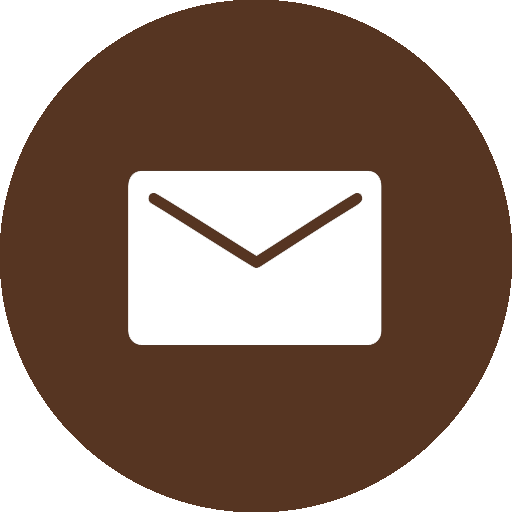
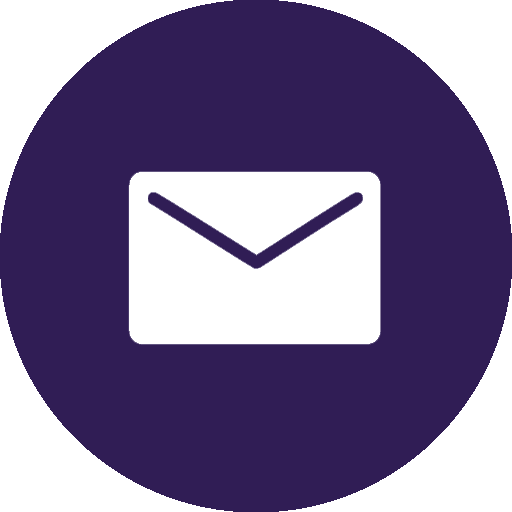
Updated Colors and Links on Index
Yes

diff --git a/public/index.html b/public/index.html
@@ -41,24 +41,31 @@
     </div>
 
     <div class="container">
-        <img src="./images/unannouncedGame.png" class="gameImage">
+        <img src="./images/Alice.jpg" class="gameImage" onclick="window.location.href='Alice';">
         <div class="gameDescription">
-            <h1>UNNANNOUNCED GAME</h1>
+            <h1>ALICE THROUGH THE FEY REALM</h1>
             <p class="subtitle">Y3 Team Project @ BUAS (2023-2024)</p>
             <p class="team-role">Technical Game Designer</p>
             <p class="game-genre">Genre: Isometric Narrative Adventure</p>
-            <br/><br/><br/><br/><br/><br/><br/><br/><br/><br/><br/><br/>
+            <p class="game-description">Alice Through the Fey Realm is an enchanting isometric narrative adventure that thrusts you into the shoes of Alice. A compelling adventure unfolds as you awaken in the mysterious Fey Realm and embark on a quest to discover the key to your journey home.</p>
+            <h2 class="responsibilities-title">My Responsibilities</h2>
+            <ul class="responsibilities-list">
+              <li>Developed the Dice Rolling System</li>
+              <li>Developed Equipment Effects</li>
+              <li>Developed the Dice Rolling User Interface</li>
+              <br/>
+          </ul>
             <div class="buttons">
-                <a href="#" target="_blank">
+                <a href="https://store.steampowered.com/app/2707340/Alice_Through_the_Fey_Realm/" target="_blank">
                     <img src="./images/SteamLogo.png">
                 </a>
-                <button class="learn-more-button" onclick="window.location.href='Unannounced';">Learn More</button>
+                <button class="learn-more-button" onclick="window.location.href='Alice';">Learn More</button>
             </div>
         </div>
     </div>
 
     <div class="container">
-        <img src="./images/twinstickjukebox.png" class="gameImage">
+        <img src="./images/twinstickjukebox.png" class="gameImage" onclick="window.location.href='TwinStickJukeBox';">
         <div class="gameDescription">
             <h1>TWIN STICK JUKEBOX</h1>
             <p class="subtitle">Y2 Solo Project @ BUAS (2022)</p>
@@ -73,7 +80,7 @@
                 <li>Developed the Power-Up System</li>
             </ul>
             <div class="buttons">
-                <a href="#" target="_blank">
+                <a href="https://anastefan.itch.io/y2atsj" target="_blank">
                     <img src="./images/itch_Logo.png">
                 </a>
                 <button class="learn-more-button" onclick="window.location.href='TwinStickJukeBox';">Learn More</button>
@@ -82,7 +89,7 @@
     </div>
 
     <div class="container">
-        <img src="./images/astrohaunt.jpg" class="gameImage">
+        <img src="./images/astrohaunt.jpg" class="gameImage" onclick="window.location.href='Astrohaunt';">
         <div class="gameDescription">
             <h1>ASTROHAUNT</h1>
             <p class="subtitle">Y1 Team Project @ BUAS (2021)</p>
@@ -98,7 +105,7 @@
             </ul>
             <br/>
             <div class="buttons">
-                <a href="#" target="_blank">
+                <a href="https://buas.itch.io/astrohaunt" target="_blank">
                     <img src="./images/itch_Logo.png">
                 </a>
                 <button class="learn-more-button" onclick="window.location.href='Astrohaunt';">Learn More</button>
@@ -107,7 +114,7 @@
     </div>
 
     <div class="container">
-        <img src="./images/ruckusandrascal.png" class="gameImage">
+        <img src="./images/ruckusandrascal.png" class="gameImage" onclick="window.location.href='RuckusAndRascal';">
         <div class="gameDescription">
             <h1>RUCKUS & RASCAL</h1>
             <p class="subtitle">Y1 Team Project @ BUAS (2023)</p>
@@ -123,7 +130,7 @@
             </ul>
             <br/>
             <div class="buttons">
-                <a href="#" target="_blank">
+                <a href="https://buas.itch.io/ruckus-rascal" target="_blank">
                     <img src="./images/itch_Logo.png">
                 </a>
                 <button class="learn-more-button" onclick="window.location.href='RuckusAndRascal';">Learn More</button>
@@ -140,7 +147,7 @@
     <div class="carousel-container">
         <div class="carousel">
           <div class="slider">
-            <section><img src="./images/longDark.png"></section>
+            <section><img src="./images/longDark.png" onclick="window.location.href='TheLongDark';"></section>
             <section><img src="./images/unrobbery.png"></section>
             <section><img src="./images/silverisland.png"></section>
           </div>

diff --git a/public/index.css b/public/index.css
@@ -2,7 +2,7 @@
 
 html {
   font-family: 'Oswald', sans-serif;
-  color: #563522;
+  color: #301d55;
 }
 
 body {
@@ -18,7 +18,7 @@ body {
 
 /* Style the dropdown button */
 .dropbtn {
-  color: #563522;
+  color: #301d55;
   position: relative;
   text-decoration: none;
 }
@@ -32,26 +32,26 @@ body {
   width: 200px;
   display: none;
   position: absolute;
-  background-color: #F99E65;
+  background-color: #b6b1f0;
   box-shadow: 0 8px 16px rgba(0, 0, 0, 0.2);
   z-index: 1;
   margin-left: -60px;
 }
 
 .dropdown-content a {
-  color: #563522;
+  color: #301d55;
   padding: 12px 16px;
   text-decoration: none;
   display: block;
 }
 
 .dropdown-content a:hover {
-  background-color: #563522;
+  background-color: #301d55;
   color: #fff;
 }
 
 nav {
-	background-color: #F99E65;
+	background-color: #b6b1f0;
 	box-shadow: 0 3px 5px rgba(0, 0, 0, 0.1);
 	display: flex;
 	align-items: center;
@@ -66,7 +66,7 @@ nav {
 }
 
 nav p {
-	color: #563522;
+	color: #301d55;
 	font-weight: bold;
 	margin: 5px;
 	letter-spacing: 1px;
@@ -86,7 +86,7 @@ nav ul li {
 }
 
 nav ul li a {
-	color: #563522;
+	color: #301d55;
 	position: relative;
 	text-decoration: none;
 }
@@ -101,7 +101,7 @@ nav ul li a:hover::after {
 
 nav ul > li > a::after {
   content: '';
-  background-color: #563522;
+  background-color: #301d55;
   position: absolute;
   bottom: -18px;
   left: 0;
@@ -123,7 +123,7 @@ nav ul > li > a:hover::after {
 
 .navName::after {
   text-decoration: none;
-  color: #563522;
+  color: #301d55;
 }
 
 .headerContainer {
@@ -176,7 +176,7 @@ nav ul > li > a:hover::after {
   height: 220px;
   margin-left: 10px;
   text-align: left;
-  color:#563522;
+  color:#301d55;
   letter-spacing: 1px;
   margin-top: 100px;
 }
@@ -195,15 +195,15 @@ nav ul > li > a:hover::after {
     margin-right: auto;
     margin-bottom: 100px;
     width: 90%; 
-    height: 36px; 
-    border-bottom: 7px solid #F99E65; 
+    height: 27px; 
+    border-bottom: 24px solid #b6b1f0; 
     text-align: center;
 }
 
 .dividerText {
     font-size: 48px; 
     background-color: #F7F6F1;
-    color: #563522; 
+    color: #301d55; 
     padding: 0 50px;
 }
 
@@ -223,11 +223,15 @@ nav ul > li > a:hover::after {
     box-shadow: 0 5px 10px rgba(0, 0, 0, 0.1);
 }
 
+.gameImage:hover {
+  cursor:pointer;
+}
+
 .gameDescription {
     text-align: center;
     background: white;
     flex-grow: 1;
-    color:#563522;
+    color:#301d55;
     margin-bottom: 40px;
     height: 600px;
     box-shadow: 0 5px 10px rgba(0, 0, 0, 0.1);
@@ -306,7 +310,7 @@ nav ul > li > a:hover::after {
 }
 
 .learn-more-button {
-  background-color: #F99E65;
+  background-color: #b6b1f0;
   border: none;
   color: #F7F6F1;
   font-weight: bold;
@@ -314,7 +318,7 @@ nav ul > li > a:hover::after {
 }
 
 .learn-more-button:hover {
-  background-color: #E69562;
+  background-color: #a49fe0;
   color: white;
   transition: all 0.2ms ease;
 }
@@ -366,12 +370,12 @@ nav ul > li > a:hover::after {
 
 .controls .arrow i {
   font-size: 80px;
-  color: #563522; 
+  color: #301d55; 
 }
 
 .controls .arrow i:hover {
   font-size: 80px;
-  color: #563522; 
+  color: #301d55; 
   transition: all 0.4 ease;
 }
 
@@ -413,7 +417,7 @@ nav ul > li > a:hover::after {
   text-align: center;
   margin: 0;
   padding: 0;
-  color: #563522; 
+  color: #301d55; 
 }
 
 .otherWork h2 {
@@ -450,7 +454,7 @@ nav ul > li > a:hover::after {
 }
 
 .skills {
-  color: #563522;
+  color: #301d55;
   width: 70%;
   margin-left: auto;
   margin-right: auto;
@@ -617,7 +621,7 @@ nav ul > li > a:hover::after {
 }
 
 .footer {
-  background-color: #E69562;
+  background-color: #b6b1f0;
   padding: 10px;
   bottom: 0;
   width: 100%;
